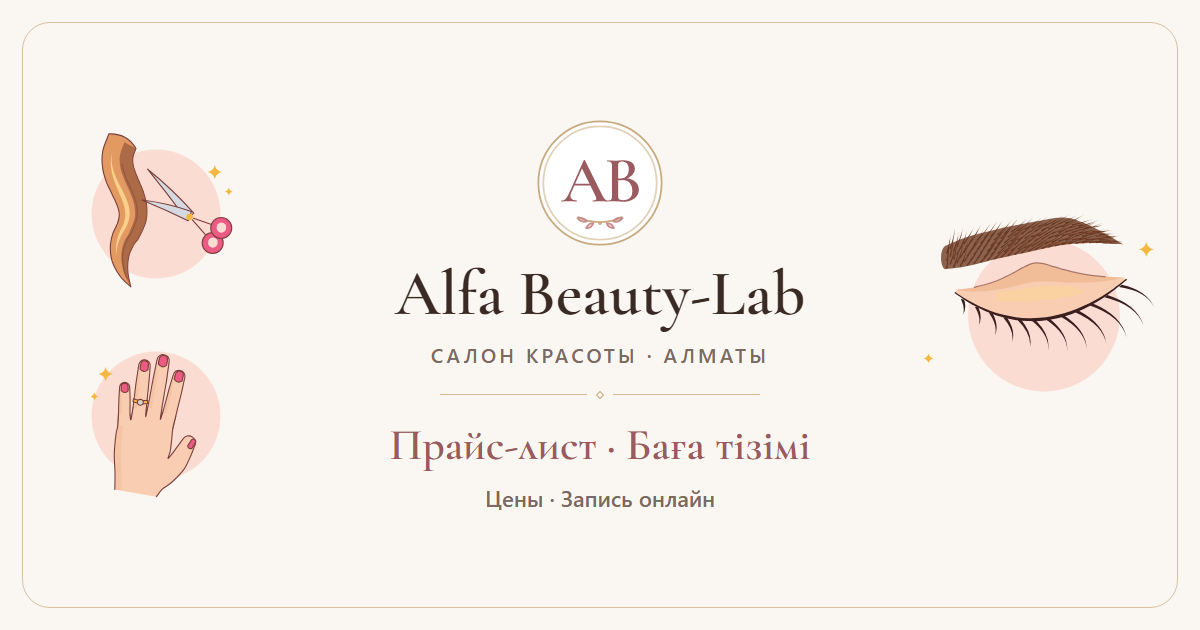
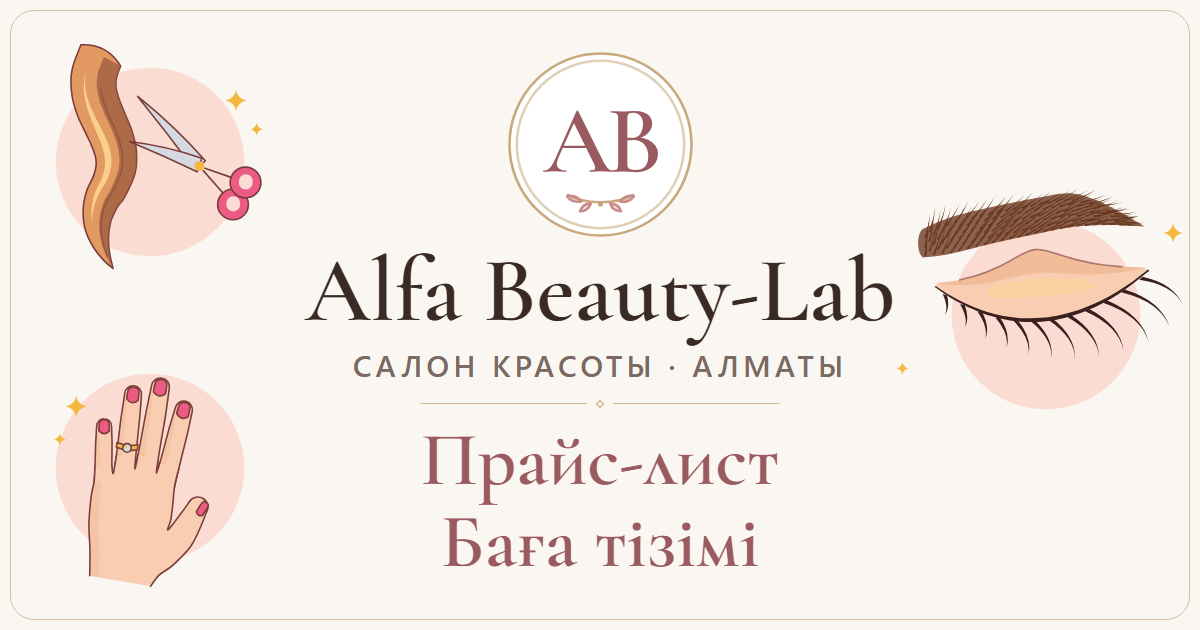
Этап 11: крупнее текст на превью

diff --git a/tools/pwa/build-pwa.js b/tools/pwa/build-pwa.js
@@ -16,7 +16,7 @@
  *  4. sw.js: CACHE_VERSION = хеш index.html, manifest и иконок. Изменился любой файл →
  *     новая версия кэша, у клиентов старый кэш удалится.
  *  5. og-image.png (1200×630) — картинка для превью ссылки в WhatsApp и Telegram: логотип, название,
- *     тексты meta.share, рисунки hair-base / nails-base / lashes-base в цветах темы (тоже Edge headless).
+ *     meta.share.tagline и строки meta.share.heading (крупно — в WhatsApp картинка уменьшается ~в 4 раза), рисунки hair-base / nails-base / lashes-base в цветах темы (тоже Edge headless).
  *     Важное — в центральном квадрате 630×630 (мессенджер может обрезать края). Если файл больше
  *     300 КБ — палитра уменьшается через ffmpeg.
  *     В index.html между метками <!--OG:START--> … <!--OG:END--> — теги Open Graph и description;
@@ -43,7 +43,7 @@ const OG_IMAGE = path.join(ROOT, 'og-image.png');
 const OG_W = 1200;
 const OG_H = 630;
 const OG_MAX_BYTES = 300 * 1024;
-const OG_ILLS = { left: ['hair-base', 'nails-base'], right: ['lashes-base'] };
+const OG_ILLS = { left: ['hair-base', 'nails-base'], right: ['lashes-base'] }; // слева два, справа один
 
 const SHORT_NAME = 'Alfa Beauty'; // docs/TZ.md, раздел 9
 
@@ -211,44 +211,52 @@ function illustrations(html) {
 
 function ogPage(data, html, theme) {
   const share = data.meta.share;
+  // heading — массив строк; строку (старый формат) делим по « · »
+  const heading = Array.isArray(share.heading) ? share.heading : String(share.heading).split(' · ');
   const ill = illustrations(html);
-  const side = keys => keys.map(k => {
+  const art = (k, cls) => {
     if (!ill[k]) throw new Error('В ILLUSTRATIONS нет рисунка ' + k);
-    return '<div class="ill">' + ill[k] + '</div>';
-  }).join('');
+    return '<div class="ill ' + cls + '">' + ill[k] + '</div>';
+  };
   const style = html.match(/<style>[\s\S]*?<\/style>/)[0];
+  const sans = 'system-ui,-apple-system,"Segoe UI",Roboto,sans-serif';
   return '<!DOCTYPE html><html data-theme="' + esc(theme) + '"><head><meta charset="utf-8">' + style +
     '<style>' +
     'html,body{margin:0;overflow:hidden;background:var(--bg)}' +
     '.og{position:relative;width:' + OG_W + 'px;height:' + OG_H + 'px;background:var(--bg);color:var(--text);overflow:hidden}' +
-    '.frame{position:absolute;inset:22px;border:1px solid var(--gold);opacity:.7;border-radius:28px}' +
-    '.side{position:absolute;top:0;bottom:0;width:300px;display:flex;flex-direction:column;justify-content:center;align-items:center;gap:6px}' +
-    '.side.l{left:6px}.side.r{right:6px}' +
-    '.side .ill{width:280px;height:196px;--sw:1.3;background:none;border-radius:0}' +
-    '.side.r .ill{width:330px;height:231px}' +
+    '.frame{position:absolute;inset:10px;border:1px solid var(--gold);opacity:.7;border-radius:24px}' +
+    // Рисунки по бокам, за пределами центрального квадрата (видимая часть рисунка — середина viewBox)
+    '.og .ill{position:absolute;--sw:1.3;background:none;border-radius:0;transform:translate(-50%,-50%)}' +
+    '.a1{left:150px;top:162px;width:410px;height:287px}' +
+    '.a2{left:150px;top:468px;width:410px;height:287px}' +
+    '.a3{left:1046px;top:315px;width:410px;height:287px}' +
     '.mid{position:absolute;left:' + (OG_W - OG_H) / 2 + 'px;top:0;width:' + OG_H + 'px;height:' + OG_H + 'px;' +
-      'display:flex;flex-direction:column;align-items:center;justify-content:center;text-align:center}' +
-    '.mid .mono{width:132px;height:132px}' +
-    '.name{font:600 64px/1.1 var(--font-head);margin-top:10px;white-space:nowrap}' +
-    '.tag{color:var(--text-2);font:600 20px/1.3 system-ui,-apple-system,"Segoe UI",Roboto,sans-serif;letter-spacing:.16em;text-transform:uppercase;margin-top:12px;white-space:nowrap}' +
-    '.mid .ornament{width:320px;max-width:none;margin:24px auto 22px}' +
-    '.head{font:600 50px/1.15 var(--font-head);color:var(--accent-strong);white-space:nowrap}' +
-    '.cta{color:var(--text-2);font:500 22px/1.3 system-ui,-apple-system,"Segoe UI",Roboto,sans-serif;margin-top:14px;white-space:nowrap}' +
+      'display:flex;align-items:center;justify-content:center;text-align:center}' +
+    '.stack{display:flex;flex-direction:column;align-items:center}' +
+    '.mid .mono{width:195px;height:195px}' +
+    '.name{font:600 112px/1.02 var(--font-head);margin-top:2px;white-space:nowrap}' +
+    '.tag{color:var(--text-2);font:600 30px/1.3 ' + sans + ';letter-spacing:.14em;text-transform:uppercase;margin-top:8px;white-space:nowrap}' +
+    '.mid .ornament{width:360px;max-width:none;margin:16px auto 12px}' +
+    '.head{font:600 76px/1.08 var(--font-head);color:var(--accent-strong);white-space:nowrap}' +
     '</style></head><body><div class="og">' +
     '<div class="frame"></div>' +
-    '<div class="side l">' + side(OG_ILLS.left) + '</div>' +
-    '<div class="side r">' + side(OG_ILLS.right) + '</div>' +
-    '<div class="mid">' +
+    art(OG_ILLS.left[0], 'a1') + art(OG_ILLS.left[1], 'a2') + art(OG_ILLS.right[0], 'a3') +
+    '<div class="mid"><div class="stack">' +
       '<div class="mono">' + logoSvg(html) + '</div>' +
       '<div class="name fit">' + esc(data.company.name) + '</div>' +
       '<div class="tag fit">' + esc(share.tagline) + '</div>' +
       '<div class="ornament"><span></span></div>' +
-      '<div class="head fit">' + esc(share.heading) + '</div>' +
-      '<div class="cta fit">' + esc(share.cta) + '</div>' +
-    '</div></div>' +
-    // Длинный текст (другой салон) уменьшается, чтобы не выйти из центрального квадрата
-    '<script>document.querySelectorAll(".fit").forEach(function(el){var s=parseFloat(getComputedStyle(el).fontSize);' +
-    'while(el.scrollWidth>' + (OG_H - 70) + '&&s>12){s-=1;el.style.fontSize=s+"px";}});</script>' +
+      heading.map(h => '<div class="head fit">' + esc(h) + '</div>').join('') +
+    '</div></div></div>' +
+    // Длинный текст (другой салон) уменьшается: по ширине — до 590 px, по высоте — весь блок в квадрат.
+    // Только после загрузки шрифта заголовков (запасной шрифт шире — иначе название зря уменьшится)
+    '<script>var nf=getComputedStyle(document.querySelector(".name"));' +
+    'document.fonts.load(nf.fontWeight+" 100px "+nf.fontFamily,"AБә").catch(function(){}).then(function(){function fs(el){return parseFloat(getComputedStyle(el).fontSize);}' +
+    'document.querySelectorAll(".fit").forEach(function(el){var s=fs(el);' +
+    'while(el.scrollWidth>' + (OG_H - 40) + '&&s>12){s-=1;el.style.fontSize=s+"px";}});' +
+    'var st=document.querySelector(".stack"),big=document.querySelectorAll(".name,.head"),n=0;' +
+    'while(st.offsetHeight>' + (OG_H - 30) + '&&n++<200){big.forEach(function(el){el.style.fontSize=Math.max(12,fs(el)-1)+"px";});}' +
+    '});</script>' +
     '</body></html>';
 }
 

diff --git a/index.html b/index.html
@@ -13,7 +13,7 @@
 <meta property="og:description" content="Салон красоты в Алматы. Цены, акции и запись через WhatsApp">
 <meta property="og:url" content="https://bndprog79-cloud.github.io/alfa-beauty/">
 <meta property="og:locale" content="ru_RU">
-<meta property="og:image" content="https://bndprog79-cloud.github.io/alfa-beauty/og-image.png?v=22e931a89d">
+<meta property="og:image" content="https://bndprog79-cloud.github.io/alfa-beauty/og-image.png?v=33b61f09e2">
 <meta property="og:image:type" content="image/png">
 <meta property="og:image:width" content="1200">
 <meta property="og:image:height" content="630">
@@ -21,7 +21,7 @@
 <meta name="twitter:card" content="summary_large_image">
 <meta name="twitter:title" content="Alfa Beauty-Lab — прайс-лист">
 <meta name="twitter:description" content="Салон красоты в Алматы. Цены, акции и запись через WhatsApp">
-<meta name="twitter:image" content="https://bndprog79-cloud.github.io/alfa-beauty/og-image.png?v=22e931a89d">
+<meta name="twitter:image" content="https://bndprog79-cloud.github.io/alfa-beauty/og-image.png?v=33b61f09e2">
 <!--OG:END-->
 <link rel="apple-touch-icon" href="icons/apple-touch-icon.png">
 <style>
@@ -495,8 +495,8 @@ const priceData = {
       title: "Alfa Beauty-Lab — прайс-лист",
       description: "Салон красоты в Алматы. Цены, акции и запись через WhatsApp",
       tagline: "Салон красоты · Алматы",    // подзаголовок на картинке
-      heading: "Прайс-лист · Баға тізімі",  // крупная надпись на картинке
-      cta: "Цены · Запись онлайн",          // короткий призыв на картинке
+      heading: ["Прайс-лист", "Баға тізімі"], // крупная надпись на картинке, каждая строка отдельно
+      cta: "Цены · Запись онлайн",          // на картинке не показывается — его повторяет описание под картинкой
       locale: "ru_RU"
     }
   },

diff --git a/docs/data.js b/docs/data.js
@@ -14,8 +14,8 @@ const priceData = {
       title: "Alfa Beauty-Lab — прайс-лист",
       description: "Салон красоты в Алматы. Цены, акции и запись через WhatsApp",
       tagline: "Салон красоты · Алматы",    // подзаголовок на картинке
-      heading: "Прайс-лист · Баға тізімі",  // крупная надпись на картинке
-      cta: "Цены · Запись онлайн",          // короткий призыв на картинке
+      heading: ["Прайс-лист", "Баға тізімі"], // крупная надпись на картинке, каждая строка отдельно
+      cta: "Цены · Запись онлайн",          // на картинке не показывается — его повторяет описание под картинкой
       locale: "ru_RU"
     }
   },

diff --git a/sw.js b/sw.js
@@ -11,7 +11,7 @@
  */
 'use strict';
 
-const CACHE_VERSION = '61f3146d9a';
+const CACHE_VERSION = 'a110f0c319';
 const CACHE_PREFIX = 'alfa-beauty-';
 const CACHE = CACHE_PREFIX + CACHE_VERSION;
 const PAGE = './';

diff --git a/docs/PROGRESS.md b/docs/PROGRESS.md
@@ -12,6 +12,7 @@
 - [x] Этап 8. Итоговая проверка по критериям — 2026-10-04. Прогон всех 13 критериев раздела 10 в Edge (headless, автоматические проверки): file:// — все 6 категорий и 29 услуг на RU и KZ (названия, цены, «от …», склонения, рисунки), текст WhatsApp во всех 58 карточках совпадает с шаблоном и ссылка закодирована правильно; KZ без русских строк, язык сохраняется после перезагрузки; поиск «педикюр» 3, «ресниц» 9, «омбре» 1, KZ «шаш» 10; «Назад» и восстановление прокрутки; 320 px, 640×320, 844×390, 1280 — без горизонтальной прокрутки; reduced motion — без анимаций; темы noir и sage перекрашивают всё (кроме фото стоп); noscript в теме; ошибок в консоли нет; priceData = docs/data.js. sw.js на локальном сервере с заголовками как у GitHub Pages: новая цена видна с первого открытия (и без пересборки sw.js, и с ней), старый кэш удаляется, без сети открывается в т. ч. по ссылкам с ?fbclid=abc123 и ?fbclid=…&utm_source=…#/c/…, manifest и иконки — из кэша. Сайт на GitHub Pages отвечает 200, файлы совпадали с коммитом этапа 7. Исправлено: неразрывный пробел в ценах (константа NBSP с этапа 3 стала обычным пробелом — цена могла переноситься посередине; теперь ' '), пересобран sw.js (CACHE_VERSION). Размер index.html 322 638 байт (~315 КБ).
 - [x] Этап 10 (дополнительный). Акции — 2026-10-04. Перед началом рабочая версия помечена тегом v1.0 (отправлен на GitHub). В данных необязательное поле `promo: { amount, until }` и 6 текстов ui (RU/KK); демо-акции до 2026-10-31: балаяж 20 000→16 000, маникюр гель-лак 4 000→3 200, 3D ресницы 9 500→7 900, вечерний макияж 7 500→6 000. Главная: блок «Акции» под поиском — лента карточек (рисунок, «−N%», название, новая цена, зачёркнутая старая), прокручивается только лента; плитки категорий с акцией — метка «Акция». Строка услуги (и в поиске): новая цена акцентом, под ней <del> со старой (aria-label «Старая цена …»), пилюля «−N%». Карточка: крупная новая цена, зачёркнутая старая, «Акция до 31.10», «Выгода 4 000 ₸». WhatsApp — шаблон «по акции» с новой ценой. «от …» в категории — с учётом акций. Акция проверяется по дате Алматы при открытии, раз в минуту и при возврате во вкладку. Проверено в Edge: все критерии этапа 8 заново — 0 ошибок (file://, RU/KZ, 58 карточек, поиск, «Назад», 320/640×320/844×390/1280, reduced motion, sw.js на локальном сервере, noscript, консоль); разметка услуг без акции совпадает с v1.0 (108 фрагментов: строки, карточки, ссылки WhatsApp, плитки и шапки категорий); копия с until в прошлом совпадает с v1.0 целиком; переход через полночь (23:59 → 00:00 по Алматы) — акции исчезают без перезагрузки; контраст новых элементов nude ≥ 5.17, noir ≥ 6.46, sage ≥ 5.08. Размер index.html 332 585 байт (~325 КБ).
 - [x] Этап 11 (дополнительный). Превью ссылки в WhatsApp и Telegram — 2026-10-04. В meta новое поле share (title, description, tagline, heading, cta, locale; в docs/data.js и index.html). tools/pwa/build-pwa.js рисует og-image.png 1200×630 через Edge headless из стилей index.html: логотип «AB», название шрифтом заголовков, «Салон красоты · Алматы», золотой орнамент, «Прайс-лист · Баға тізімі», «Цены · Запись онлайн», по бокам рисунки hair-base, nails-base (слева) и lashes-base (справа), тонкая золотая рамка; все цвета — переменные темы. Текст в центральном квадрате 630×630 (при обрезке до квадрата рисунки уходят, текст и логотип целиком), длинные надписи другого салона уменьшаются автоматически. Плашки «Акции» нет — решение владельца (мессенджеры долго хранят превью). В <head> между метками OG:START/END — description, og:type/site_name/title/description/url/locale, og:image с ?v=<хеш картинки>, og:image:type/width/height/alt, twitter:card summary_large_image и др. Проверено: картинка 1200×630, 85 494 байт (предел 300 КБ); повторный запуск скрипта даёт тот же файл и хеш, иконки не меняются; priceData = docs/data.js; страница открывается файлом, экраны и акции на месте, ошибок в консоли нет. Размер index.html 334 644 байт (~327 КБ).
+  - Доработка (крупнее текст на превью) — 2026-10-04: в WhatsApp картинка уменьшается примерно в 4 раза, текст был мелким. Логотип 132→195 px, название до 112 px (по ширине центрального квадрата), подзаголовок 20→30 px, heading стал массивом ["Прайс-лист", "Баға тізімі"] — две строки по 76 px, строка cta убрана с картинки (поле в данных осталось), рамка ближе к краю (10 px), боковые рисунки крупнее. Автоуменьшение — по ширине (590 px) и по высоте (весь блок в квадрат 630); подгонка запускается после загрузки шрифта заголовков (иначе запасной шрифт шире и название зря уменьшалось). Картинка 121 726 байт.
 
 ## Следующий шаг
 Все этапы ТЗ выполнены (включая дополнительные этапы 10 — акции и 11 — превью ссылки). Осталось владельцу: проверить на iPhone (Safari, ссылка из WhatsApp и Telegram, «На экран Домой», режим «в самолёте»); заменить тестовый номер 77010000000 на настоящий (docs/data.js и index.html → node tools/pwa/build-pwa.js → коммит → push).

diff --git a/docs/TZ.md b/docs/TZ.md
@@ -31,7 +31,7 @@ alfa-beauty/
 - Поля `desc`, `includes`, `duration`, `hit`, `per` могут отсутствовать — интерфейс должен выглядеть нормально и без них.
 - Количество услуг в категории и минимальная цена «от …» вычисляются кодом.
 - Необязательное поле `promo: { amount, until: "ГГГГ-ММ-ДД" }` — акция (этап 10). `amount` — новая цена, старая берётся из `price.amount`; `from` и `per` наследуются от `price`. Акция действует, пока сегодняшняя дата по `company.timezone` (если пояса нет — по устройству) не позже `until`; после — автоматически обычная цена, без меток. Если `amount` не меньше обычной цены или дата записана не в формате ГГГГ-ММ-ДД — акция не показывается. Процент скидки (округляется до целого) и выгода вычисляются кодом. «от …» в шапке категории считается с учётом действующих акций.
-- `meta.share` — тексты превью ссылки (этап 11): `title`, `description` (теги Open Graph и `<meta name="description">`), `tagline`, `heading`, `cta` (надписи на картинке og-image.png), `locale` (og:locale). Интерфейс прайса их не показывает.
+- `meta.share` — тексты превью ссылки (этап 11): `title`, `description` (теги Open Graph и `<meta name="description">`), `tagline` и `heading` (надписи на картинке og-image.png; `heading` — массив строк, каждая крупно отдельной строкой), `cta` (на картинке не показывается — его повторяет описание под картинкой), `locale` (og:locale). Интерфейс прайса их не показывает.
 - Тексты акций в `ui`: `promo`, `promosTitle`, `promoUntil` ({date} = ДД.ММ), `promoSave` ({sum}), `oldPrice`, `waTemplatePromo`.
 
 ### Форматирование
@@ -177,7 +177,7 @@ SPA из трёх экранов в одном файле. Контейнер м
 - sw.js: кэширует index.html, manifest, иконки. Стратегия для страницы — «сначала сеть с таймаутом 3 с»: запрос с `cache: 'no-cache'` (браузер перепроверяет файл у сервера), успешный ответ кладётся в кэш; нет ответа за 3 с или нет сети — сохранённая копия (`caches.match` с `ignoreSearch: true`, чтобы ссылки с ?fbclid=… тоже открывались, запасной вариант `./`). Manifest и иконки — сначала из кэша. Версия кэша в константе CACHE_VERSION (хеш файлов, ставит tools/pwa/build-pwa.js); при изменении версии старый кэш удаляется. (Решение владельца на этапе 7 вместо stale-while-revalidate — чтобы новые цены были видны с первого открытия.)
 - В index.html: `<link rel="manifest">`, apple-touch-icon, регистрация sw.js только на http/https.
 - QR-код qr/alfa-beauty-qr.svg со ссылкой на сайт, тёмные модули цвета --text темы nude, уровень коррекции M, генерация скриптом (npm-пакет qrcode в tools/).
-- Превью ссылки (Open Graph, этап 11): og-image.png 1200×630 до 300 КБ — логотип, название, тексты `meta.share`, рисунки hair-base, nails-base, lashes-base в цветах темы; всё важное в центральном квадрате 630×630. Плашки «Акции» на картинке нет: мессенджеры долго хранят превью. В `<head>` между метками `<!--OG:START-->`…`<!--OG:END-->`: description, og:type/site_name/title/description/url/locale, og:image (абсолютный адрес от `meta.siteUrl` с `?v=<хеш картинки>`), og:image:type/width/height/alt, twitter:card summary_large_image. Картинку и теги собирает tools/pwa/build-pwa.js; в кэш sw.js картинка не входит.
+- Превью ссылки (Open Graph, этап 11): og-image.png 1200×630 до 300 КБ — логотип, название, `meta.share.tagline` и строки `meta.share.heading` — крупно (в WhatsApp картинка уменьшается примерно в 4 раза; длинные надписи уменьшаются автоматически), рисунки hair-base, nails-base, lashes-base в цветах темы; всё важное в центральном квадрате 630×630. Плашки «Акции» на картинке нет: мессенджеры долго хранят превью. В `<head>` между метками `<!--OG:START-->`…`<!--OG:END-->`: description, og:type/site_name/title/description/url/locale, og:image (абсолютный адрес от `meta.siteUrl` с `?v=<хеш картинки>`), og:image:type/width/height/alt, twitter:card summary_large_image. Картинку и теги собирает tools/pwa/build-pwa.js; в кэш sw.js картинка не входит.
 - Публикация: GitHub Pages, ветка main, корень.
 
 ## 10. Критерии приёмки (общие)
